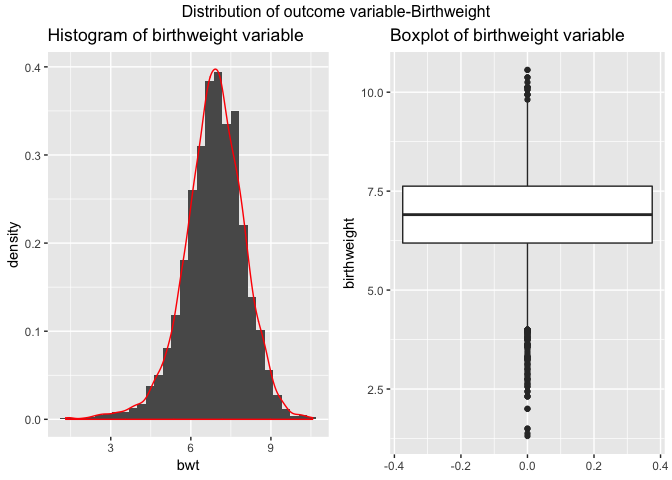
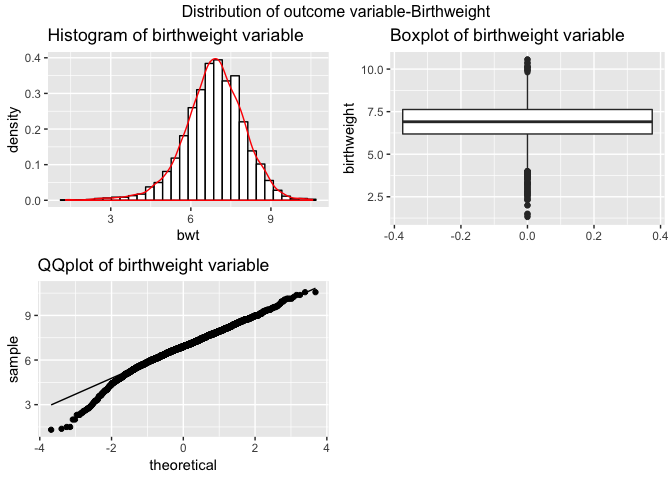
Add a qqplot for the Y.

diff --git a/p8105_sj2921_hw6.md b/p8105_sj2921_hw6.md
@@ -6,17 +6,23 @@ Shan Jiang
 ## problem 1
 
 ``` r
+knitr::opts_chunk$set(
+  out.width = "90%",
+  warning = FALSE,
+  message = FALSE
+)
+
 library(tidyverse)
 ```
 
-    ## ── Attaching packages ──────────────────────────────────────────────────────── tidyverse 1.2.1 ──
+    ## ── Attaching packages ─────────────────────────────────────────────────── tidyverse 1.2.1 ──
 
     ## ✔ ggplot2 3.0.0     ✔ purrr   0.2.5
     ## ✔ tibble  1.4.2     ✔ dplyr   0.7.6
     ## ✔ tidyr   0.8.1     ✔ stringr 1.3.1
     ## ✔ readr   1.1.1     ✔ forcats 0.3.0
 
-    ## ── Conflicts ─────────────────────────────────────────────────────────── tidyverse_conflicts() ──
+    ## ── Conflicts ────────────────────────────────────────────────────── tidyverse_conflicts() ──
     ## ✖ dplyr::filter() masks stats::filter()
     ## ✖ dplyr::lag()    masks stats::lag()
 
@@ -78,22 +84,6 @@ library(ggplot2)
 homicide_raw = read_csv("https://raw.githubusercontent.com/washingtonpost/data-homicides/master/homicide-data.csv")
 ```
 
-    ## Parsed with column specification:
-    ## cols(
-    ##   uid = col_character(),
-    ##   reported_date = col_integer(),
-    ##   victim_last = col_character(),
-    ##   victim_first = col_character(),
-    ##   victim_race = col_character(),
-    ##   victim_age = col_character(),
-    ##   victim_sex = col_character(),
-    ##   city = col_character(),
-    ##   state = col_character(),
-    ##   lat = col_double(),
-    ##   lon = col_double(),
-    ##   disposition = col_character()
-    ## )
-
 ### 1.1 Tidy the dataset
 
 ``` r
@@ -107,9 +97,6 @@ homicide_df = homicide_raw %>%
   ## change the victim_age as numeric
   mutate(victim_age = as.numeric(victim_age)) 
 ```
-
-    ## Warning in evalq(as.numeric(victim_age), <environment>): NAs introduced by
-    ## coercion
 
 Since there are three levels for the factor of disposition, we need to
 recode it as whether the homicide is solved or not: for *Closed by
@@ -225,7 +212,7 @@ city_murder %>%
   theme_bw() +
   theme(legend.position = "none",
         legend.direction = "horizontal",
-         legend.key.size = unit(0.06, "cm")) + 
+         legend.key.size = unit(0.06, "cm"))+
   coord_flip() + 
       labs(x = "City State",
            y = "City Homicide Odds ratio", 
@@ -242,19 +229,8 @@ city_murder %>%
 
 ``` r
 birth_weight = read_csv("./Data/birthweight.csv") 
-```
+  
 
-    ## Parsed with column specification:
-    ## cols(
-    ##   .default = col_integer(),
-    ##   gaweeks = col_double(),
-    ##   ppbmi = col_double(),
-    ##   smoken = col_double()
-    ## )
-
-    ## See spec(...) for full column specifications.
-
-``` r
 birth_weight = birth_weight %>% 
     janitor::clean_names() %>% 
     mutate(babysex = as.factor(recode(babysex, `1` = 0, `2` = 1)),
@@ -274,7 +250,7 @@ skimr::skim(birth_weight )
     ##  n obs: 4342 
     ##  n variables: 20 
     ## 
-    ## ── Variable type:factor ─────────────────────────────────────────────────────────────────────────
+    ## ── Variable type:factor ────────────────────────────────────────────────────────────────────
     ##  variable missing complete    n n_unique                      top_counts
     ##   babysex       0     4342 4342        2         0: 2230, 1: 2112, NA: 0
     ##     frace       0     4342 4342        5 1: 2123, 2: 1911, 4: 248, 3: 46
@@ -286,7 +262,7 @@ skimr::skim(birth_weight )
     ##    FALSE
     ##    FALSE
     ## 
-    ## ── Variable type:integer ────────────────────────────────────────────────────────────────────────
+    ## ── Variable type:integer ───────────────────────────────────────────────────────────────────
     ##  variable missing complete    n     mean    sd  p0 p25 p50 p75 p100
     ##   blength       0     4342 4342  49.75    2.72  20  48  50  51   63
     ##     delwt       0     4342 4342 145.57   22.21  86 131 143 157  334
@@ -310,7 +286,7 @@ skimr::skim(birth_weight )
     ##  ▁▇▆▁▁▁▁▁
     ##  ▁▁▁▇▇▁▁▁
     ## 
-    ## ── Variable type:numeric ────────────────────────────────────────────────────────────────────────
+    ## ── Variable type:numeric ───────────────────────────────────────────────────────────────────
     ##  variable missing complete    n  mean   sd    p0   p25   p50   p75  p100
     ##     bhead       0     4342 4342 33.65 1.62 21    33    34    35    41   
     ##       bwt       0     4342 4342  6.87 1.13  1.31  6.19  6.91  7.63 10.56
@@ -349,41 +325,44 @@ skimr::skim(birth_weight )
 ``` r
 ## Distribution of outcome variable
 library("gridExtra")
-```
-
-    ## 
-    ## Attaching package: 'gridExtra'
-
-    ## The following object is masked from 'package:dplyr':
-    ## 
-    ##     combine
-
-``` r
-his = birth_weight %>% 
+his = birth_weight %>%
   ggplot(aes(x = bwt, y = ..density..)) + 
-  geom_histogram() +
+  geom_histogram(colour = "black", fill = "white") +
   geom_density(color = "red") +
-  ggtitle("Histogram of birthweight variable")
+  labs(title = "Histogram of birthweight variable")
 
 box = birth_weight %>% 
   ggplot(aes(y = bwt)) + 
   labs(y = "birthweight") +
   geom_boxplot() +
-  ggtitle("Boxplot of birthweight variable")
+  labs(title = "Boxplot of birthweight variable")
 
-grid.arrange(his, box, nrow = 1, top = "Distribution of outcome variable-Birthweight") 
+qq_plot = birth_weight %>% 
+  ggplot(aes(sample = bwt)) + 
+  stat_qq() + 
+  stat_qq_line() +
+  labs(title = "QQplot of birthweight variable")
+
+res = birth_weight %>% 
+  ggplot(aes(x = bwt , y = )) +
+  geom_smooth(method = "lm", se = FALSE, color = "lightgrey") +  # Plot regression slope
+  geom_segment(aes(xend = hp, yend = predicted), alpha = .2) +  # alpha to fade lines
+  geom_point() +
+  geom_point(aes(y = predicted), shape = 1) +
+  theme_bw() 
+  
+
+grid.arrange(his, box, qq_plot, nrow = 2, top = "Distribution of outcome variable-Birthweight") 
 ```
 
-    ## `stat_bin()` using `bins = 30`. Pick better value with `binwidth`.
+<img src="p8105_sj2921_hw6_files/figure-gfm/unnamed-chunk-8-1.png" width="90%" />
 
-![](p8105_sj2921_hw6_files/figure-gfm/unnamed-chunk-8-1.png)<!-- -->
-
-The distribution of `birthweight` is quite normal, which satisfies the
-linear regression model assumptions.
+The distribution of `birthweight` is quite normalized, which satisfies
+the linear regression model assumptions.
 
 ``` r
 ## Excluding two variables contatining many 0s.
-summary(birth_weight$pnumlbw )
+summary(birth_weight$pnumlbw)
 ```
 
     ##    Min. 1st Qu.  Median    Mean 3rd Qu.    Max. 
@@ -400,6 +379,8 @@ summary(birth_weight$pnumsga)
     `pnumlbw` and `pnumsga` in the birth weight data, we would
     **exclude** them in our
 model.
+
+### Model selection criteria
 
 #### I. The **hypothesis only model** is based on variables more relevant to **physical aspects** of mother :
 
@@ -439,14 +420,6 @@ correlation_df = birth_weight %>%
   cor(.[3], .) %>% 
   broom::tidy() %>% 
   select(-.rownames, -bwt) 
-```
-
-    ## Warning in cor(.[3], .): the standard deviation is zero
-
-    ## Warning: 'tidy.matrix' is deprecated.
-    ## See help("Deprecated")
-
-``` r
 ## Filtering the variables which have a correlation with bwt as of higher than 0.2.
 correlation_df %>% 
   mutate(index = 1) %>% 
@@ -481,7 +454,8 @@ models.
 
 #### I.based on a hypothesized structure for the factors that underly birthweight
 
-Stepwise elimination
+  - Followed a stepwise elimination, we then need to build our own
+    models.
 
   - From the exploration analysis, the baseline of `mrace` and `frace`
     are 1，denoting all other races are compared to the White. The
@@ -672,7 +646,7 @@ cv_df %>%
   ggtitle("Volin plot of RMSE in each candidate model")
 ```
 
-![](p8105_sj2921_hw6_files/figure-gfm/unnamed-chunk-15-1.png)<!-- -->
+<img src="p8105_sj2921_hw6_files/figure-gfm/unnamed-chunk-15-1.png" width="90%" />
 
 Specific value of RMSE
 
@@ -729,9 +703,7 @@ birth_weight %>%
   ggtitle("Predicted values vs. residuals plot for Final model")
 ```
 
-    ## `geom_smooth()` using method = 'gam' and formula 'y ~ s(x, bs = "cs")'
-
-![](p8105_sj2921_hw6_files/figure-gfm/unnamed-chunk-17-1.png)<!-- -->
+<img src="p8105_sj2921_hw6_files/figure-gfm/unnamed-chunk-17-1.png" width="90%" />
 
 From the fitted line and the obs point graph, we can see that the
 residual is high at the low value,meaning that there are some outliers
@@ -751,12 +723,7 @@ cv_df2 <- cv_df2 %>%
   mutate(rmse_comb = map2_dbl(Comb_mod, test, ~rmse(model = .x, data = .y)),
          rmse_main = map2_dbl(main_mod, test, ~rmse(model = .x, data = .y)),
          rmse_other = map2_dbl(other_mod, test, ~rmse(model = .x, data = .y)))
-```
 
-    ## Warning in predict.lm(model, data): prediction from a rank-deficient fit
-    ## may be misleading
-
-``` r
 cv_df2 %>% 
   select( rmse_comb, rmse_main, rmse_other) %>% 
   gather(key = model, value = rmse) %>% 
@@ -767,9 +734,9 @@ cv_df2 %>%
   ggtitle("Violin plot of RMSE for 3 models")
 ```
 
-![](p8105_sj2921_hw6_files/figure-gfm/unnamed-chunk-18-1.png)<!-- -->
+<img src="p8105_sj2921_hw6_files/figure-gfm/unnamed-chunk-18-1.png" width="90%" />
 
-Specific value of RMSE
+Specific value of RMSE in these 3 models
 
 ``` r
 cv_df2 %>% 
@@ -793,5 +760,4 @@ model has the lowest RMSE value among the three models. For other 2
 models, the three way interaction model has a rather lower RMSE thah the
 main effect model.
 
-The term RMSE is always between 0 and 1, 0.7 is comparatively high in
-this case.
+The term RMSE is 0.7, is comparatively high in this case.
